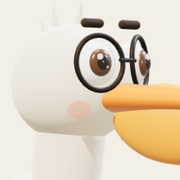
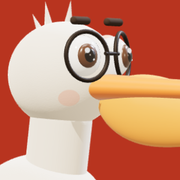
Icône d'onglet : pastille terracotta, versionnée pour sortir du cache

diff --git a/index.html b/index.html
@@ -9,7 +9,7 @@
 <meta property="og:title" content="Kalo Afrique — les chiffres du débat public, vérifiés"><meta property="og:description" content="64 enquêtes vérifiées sur les chiffres du débat public au Sénégal et en Afrique de l&#x27;Ouest : budget, énergie, santé, emploi, transports.">
 <meta property="og:url" content="https://kaloafrique.com/"><meta property="og:image" content="https://kaloafrique.com/images/partage.png">
 <meta name="twitter:card" content="summary_large_image"><meta name="twitter:site" content="@artemis_0101">
-<link rel="icon" href="favicon.png" type="image/png"><link rel="apple-touch-icon" href="apple-touch-icon.png">
+<link rel="icon" href="favicon.png?v=b7eb90750e" type="image/png" sizes="96x96"><link rel="apple-touch-icon" href="apple-touch-icon.png?v=b7eb90750e">
 <link rel="preconnect" href="https://fonts.googleapis.com"><link rel="preconnect" href="https://fonts.gstatic.com" crossorigin><link href="https://fonts.googleapis.com/css2?family=Figtree:wght@400;600;700&family=Source+Serif+4:ital,opsz,wght@0,8..60,600;0,8..60,700;1,8..60,400&display=swap" rel="stylesheet"><style>
 :root{--papier:#f3efe6;--carte:#fffdf8;--encre:#14120e;--doux:#5f5a50;--trait:#e2dacb;
 --acc:#b8341f;--acc2:#1f5f5b;--acc-fond:#f7e4de;--focus:#2155cc;
@@ -78,7 +78,7 @@ nav.menu a{white-space:nowrap;padding:.4rem .5rem;font-size:.88rem}
 </style></head>
 <body><a class="saut" href="#contenu">Aller au contenu</a>
 <div class="cadre"><header class="haut">
-<a class="marque" href="index.html"><img src="images/tete.png" alt="" width="40" height="40">Kalo Afrique</a>
+<a class="marque" href="index.html"><img src="images/tete.png?v=b7eb90750e" alt="" width="40" height="40">Kalo Afrique</a>
 <nav class="menu" aria-label="Navigation principale"><a href="index.html" aria-current="page">Enquêtes</a><a href="methode.html">Méthode</a><a href="corrections.html">Corrections</a><a href="a-propos.html">À propos</a></nav>
 <a class="suivre" href="https://x.com/artemis_0101" rel="me noopener">Suivre sur X</a></header>
 <main id="contenu"><section class="hero"><div>

diff --git a/methode.html b/methode.html
@@ -9,7 +9,7 @@
 <meta property="og:title" content="Méthode — Kalo Afrique"><meta property="og:description" content="Comment Kalo Afrique vérifie un chiffre : source primaire, quatre attaques avant publication, test du démenti, corrections publiques.">
 <meta property="og:url" content="https://kaloafrique.com/methode.html"><meta property="og:image" content="https://kaloafrique.com/images/partage.png">
 <meta name="twitter:card" content="summary_large_image"><meta name="twitter:site" content="@artemis_0101">
-<link rel="icon" href="favicon.png" type="image/png"><link rel="apple-touch-icon" href="apple-touch-icon.png">
+<link rel="icon" href="favicon.png?v=b7eb90750e" type="image/png" sizes="96x96"><link rel="apple-touch-icon" href="apple-touch-icon.png?v=b7eb90750e">
 <link rel="preconnect" href="https://fonts.googleapis.com"><link rel="preconnect" href="https://fonts.gstatic.com" crossorigin><link href="https://fonts.googleapis.com/css2?family=Figtree:wght@400;600;700&family=Source+Serif+4:ital,opsz,wght@0,8..60,600;0,8..60,700;1,8..60,400&display=swap" rel="stylesheet"><style>
 :root{--papier:#f3efe6;--carte:#fffdf8;--encre:#14120e;--doux:#5f5a50;--trait:#e2dacb;
 --acc:#b8341f;--acc2:#1f5f5b;--acc-fond:#f7e4de;--focus:#2155cc;
@@ -78,7 +78,7 @@ nav.menu a{white-space:nowrap;padding:.4rem .5rem;font-size:.88rem}
 </style></head>
 <body><a class="saut" href="#contenu">Aller au contenu</a>
 <div class="cadre"><header class="haut">
-<a class="marque" href="index.html"><img src="images/tete.png" alt="" width="40" height="40">Kalo Afrique</a>
+<a class="marque" href="index.html"><img src="images/tete.png?v=b7eb90750e" alt="" width="40" height="40">Kalo Afrique</a>
 <nav class="menu" aria-label="Navigation principale"><a href="index.html">Enquêtes</a><a href="methode.html" aria-current="page">Méthode</a><a href="corrections.html">Corrections</a><a href="a-propos.html">À propos</a></nav>
 <a class="suivre" href="https://x.com/artemis_0101" rel="me noopener">Suivre sur X</a></header>
 <main id="contenu"><article class="texte"><h1>Notre méthode</h1>

diff --git a/corrections.html b/corrections.html
@@ -9,7 +9,7 @@
 <meta property="og:title" content="Corrections — Kalo Afrique"><meta property="og:description" content="Toutes les corrections publiques de Kalo Afrique, avec leur cause.">
 <meta property="og:url" content="https://kaloafrique.com/corrections.html"><meta property="og:image" content="https://kaloafrique.com/images/partage.png">
 <meta name="twitter:card" content="summary_large_image"><meta name="twitter:site" content="@artemis_0101">
-<link rel="icon" href="favicon.png" type="image/png"><link rel="apple-touch-icon" href="apple-touch-icon.png">
+<link rel="icon" href="favicon.png?v=b7eb90750e" type="image/png" sizes="96x96"><link rel="apple-touch-icon" href="apple-touch-icon.png?v=b7eb90750e">
 <link rel="preconnect" href="https://fonts.googleapis.com"><link rel="preconnect" href="https://fonts.gstatic.com" crossorigin><link href="https://fonts.googleapis.com/css2?family=Figtree:wght@400;600;700&family=Source+Serif+4:ital,opsz,wght@0,8..60,600;0,8..60,700;1,8..60,400&display=swap" rel="stylesheet"><style>
 :root{--papier:#f3efe6;--carte:#fffdf8;--encre:#14120e;--doux:#5f5a50;--trait:#e2dacb;
 --acc:#b8341f;--acc2:#1f5f5b;--acc-fond:#f7e4de;--focus:#2155cc;
@@ -78,7 +78,7 @@ nav.menu a{white-space:nowrap;padding:.4rem .5rem;font-size:.88rem}
 </style></head>
 <body><a class="saut" href="#contenu">Aller au contenu</a>
 <div class="cadre"><header class="haut">
-<a class="marque" href="index.html"><img src="images/tete.png" alt="" width="40" height="40">Kalo Afrique</a>
+<a class="marque" href="index.html"><img src="images/tete.png?v=b7eb90750e" alt="" width="40" height="40">Kalo Afrique</a>
 <nav class="menu" aria-label="Navigation principale"><a href="index.html">Enquêtes</a><a href="methode.html">Méthode</a><a href="corrections.html" aria-current="page">Corrections</a><a href="a-propos.html">À propos</a></nav>
 <a class="suivre" href="https://x.com/artemis_0101" rel="me noopener">Suivre sur X</a></header>
 <main id="contenu"><article class="texte"><h1>Corrections</h1>

diff --git a/a-propos.html b/a-propos.html
@@ -9,7 +9,7 @@
 <meta property="og:title" content="À propos — Kalo Afrique"><meta property="og:description" content="Qui est Kalo Afrique, ce que nous vérifions et comment nous contacter.">
 <meta property="og:url" content="https://kaloafrique.com/a-propos.html"><meta property="og:image" content="https://kaloafrique.com/images/partage.png">
 <meta name="twitter:card" content="summary_large_image"><meta name="twitter:site" content="@artemis_0101">
-<link rel="icon" href="favicon.png" type="image/png"><link rel="apple-touch-icon" href="apple-touch-icon.png">
+<link rel="icon" href="favicon.png?v=b7eb90750e" type="image/png" sizes="96x96"><link rel="apple-touch-icon" href="apple-touch-icon.png?v=b7eb90750e">
 <link rel="preconnect" href="https://fonts.googleapis.com"><link rel="preconnect" href="https://fonts.gstatic.com" crossorigin><link href="https://fonts.googleapis.com/css2?family=Figtree:wght@400;600;700&family=Source+Serif+4:ital,opsz,wght@0,8..60,600;0,8..60,700;1,8..60,400&display=swap" rel="stylesheet"><style>
 :root{--papier:#f3efe6;--carte:#fffdf8;--encre:#14120e;--doux:#5f5a50;--trait:#e2dacb;
 --acc:#b8341f;--acc2:#1f5f5b;--acc-fond:#f7e4de;--focus:#2155cc;
@@ -78,7 +78,7 @@ nav.menu a{white-space:nowrap;padding:.4rem .5rem;font-size:.88rem}
 </style></head>
 <body><a class="saut" href="#contenu">Aller au contenu</a>
 <div class="cadre"><header class="haut">
-<a class="marque" href="index.html"><img src="images/tete.png" alt="" width="40" height="40">Kalo Afrique</a>
+<a class="marque" href="index.html"><img src="images/tete.png?v=b7eb90750e" alt="" width="40" height="40">Kalo Afrique</a>
 <nav class="menu" aria-label="Navigation principale"><a href="index.html">Enquêtes</a><a href="methode.html">Méthode</a><a href="corrections.html">Corrections</a><a href="a-propos.html" aria-current="page">À propos</a></nav>
 <a class="suivre" href="https://x.com/artemis_0101" rel="me noopener">Suivre sur X</a></header>
 <main id="contenu"><article class="texte"><h1>À propos</h1>

diff --git a/404.html b/404.html
@@ -9,7 +9,7 @@
 <meta property="og:title" content="Page introuvable — Kalo Afrique"><meta property="og:description" content="Page introuvable.">
 <meta property="og:url" content="https://kaloafrique.com/404.html"><meta property="og:image" content="https://kaloafrique.com/images/partage.png">
 <meta name="twitter:card" content="summary_large_image"><meta name="twitter:site" content="@artemis_0101">
-<link rel="icon" href="favicon.png" type="image/png"><link rel="apple-touch-icon" href="apple-touch-icon.png">
+<link rel="icon" href="favicon.png?v=b7eb90750e" type="image/png" sizes="96x96"><link rel="apple-touch-icon" href="apple-touch-icon.png?v=b7eb90750e">
 <link rel="preconnect" href="https://fonts.googleapis.com"><link rel="preconnect" href="https://fonts.gstatic.com" crossorigin><link href="https://fonts.googleapis.com/css2?family=Figtree:wght@400;600;700&family=Source+Serif+4:ital,opsz,wght@0,8..60,600;0,8..60,700;1,8..60,400&display=swap" rel="stylesheet"><style>
 :root{--papier:#f3efe6;--carte:#fffdf8;--encre:#14120e;--doux:#5f5a50;--trait:#e2dacb;
 --acc:#b8341f;--acc2:#1f5f5b;--acc-fond:#f7e4de;--focus:#2155cc;
@@ -78,7 +78,7 @@ nav.menu a{white-space:nowrap;padding:.4rem .5rem;font-size:.88rem}
 </style></head>
 <body><a class="saut" href="#contenu">Aller au contenu</a>
 <div class="cadre"><header class="haut">
-<a class="marque" href="index.html"><img src="images/tete.png" alt="" width="40" height="40">Kalo Afrique</a>
+<a class="marque" href="index.html"><img src="images/tete.png?v=b7eb90750e" alt="" width="40" height="40">Kalo Afrique</a>
 <nav class="menu" aria-label="Navigation principale"><a href="index.html">Enquêtes</a><a href="methode.html">Méthode</a><a href="corrections.html">Corrections</a><a href="a-propos.html">À propos</a></nav>
 <a class="suivre" href="https://x.com/artemis_0101" rel="me noopener">Suivre sur X</a></header>
 <main id="contenu"><article class="texte"><h1>Page introuvable</h1>
